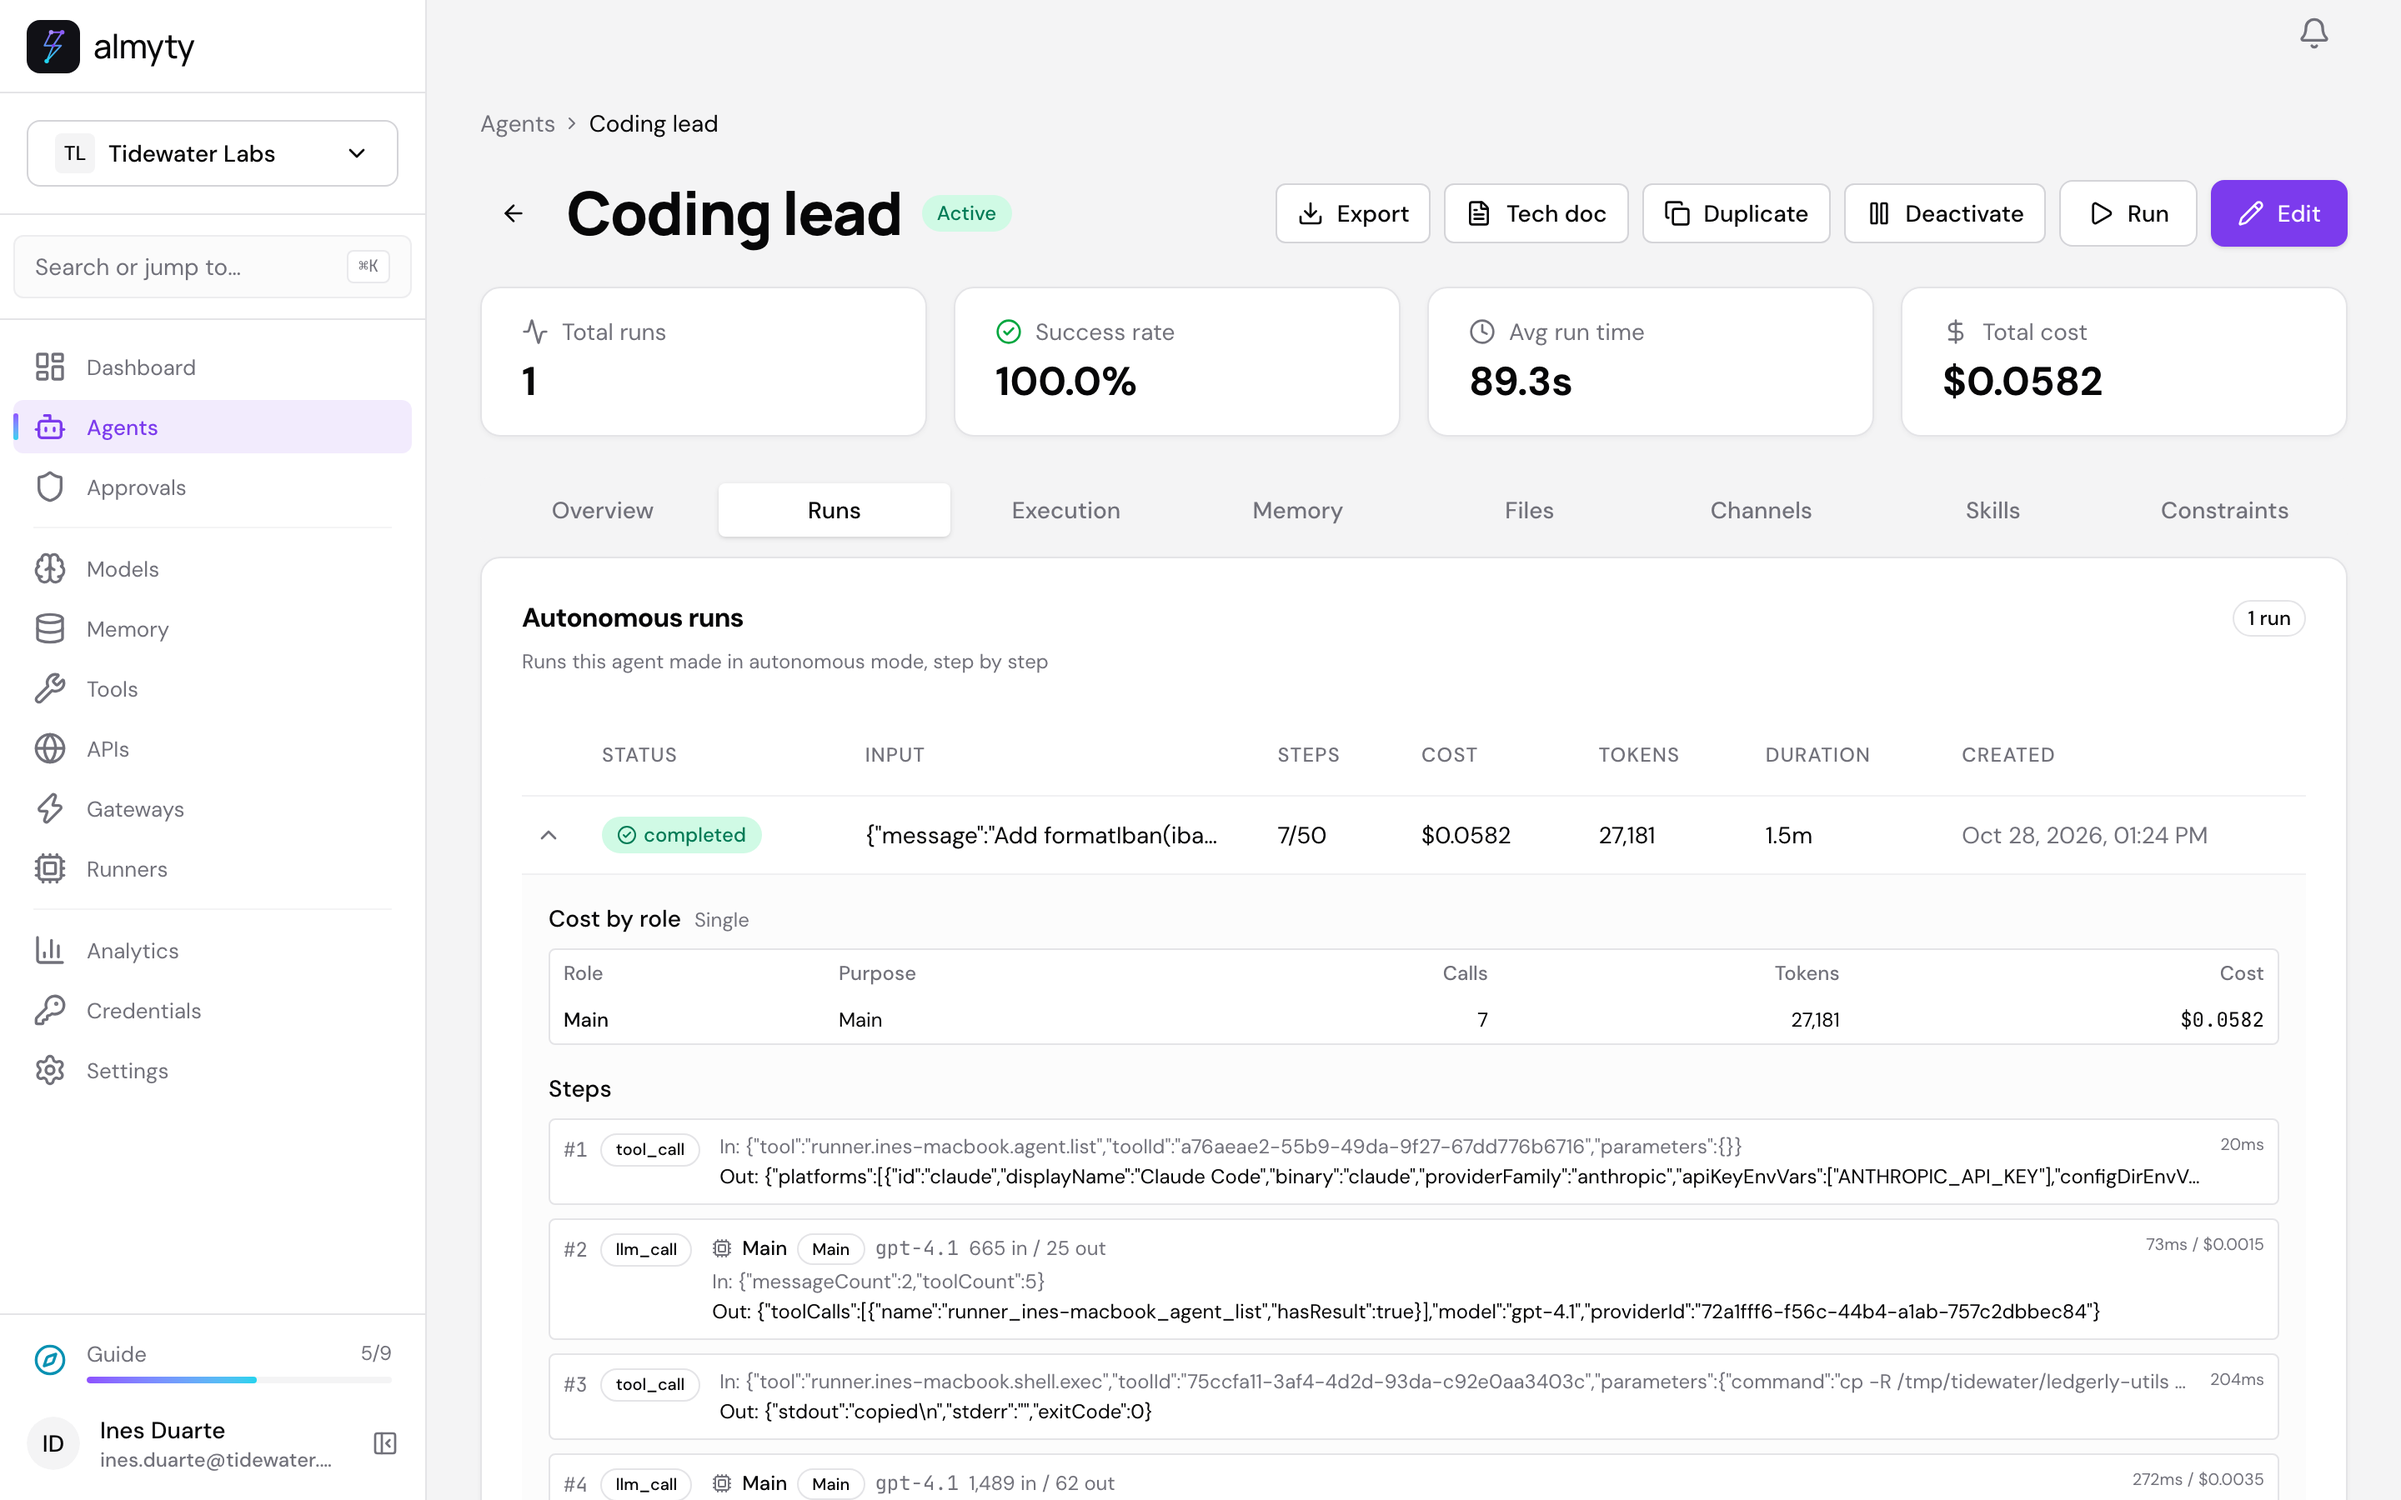
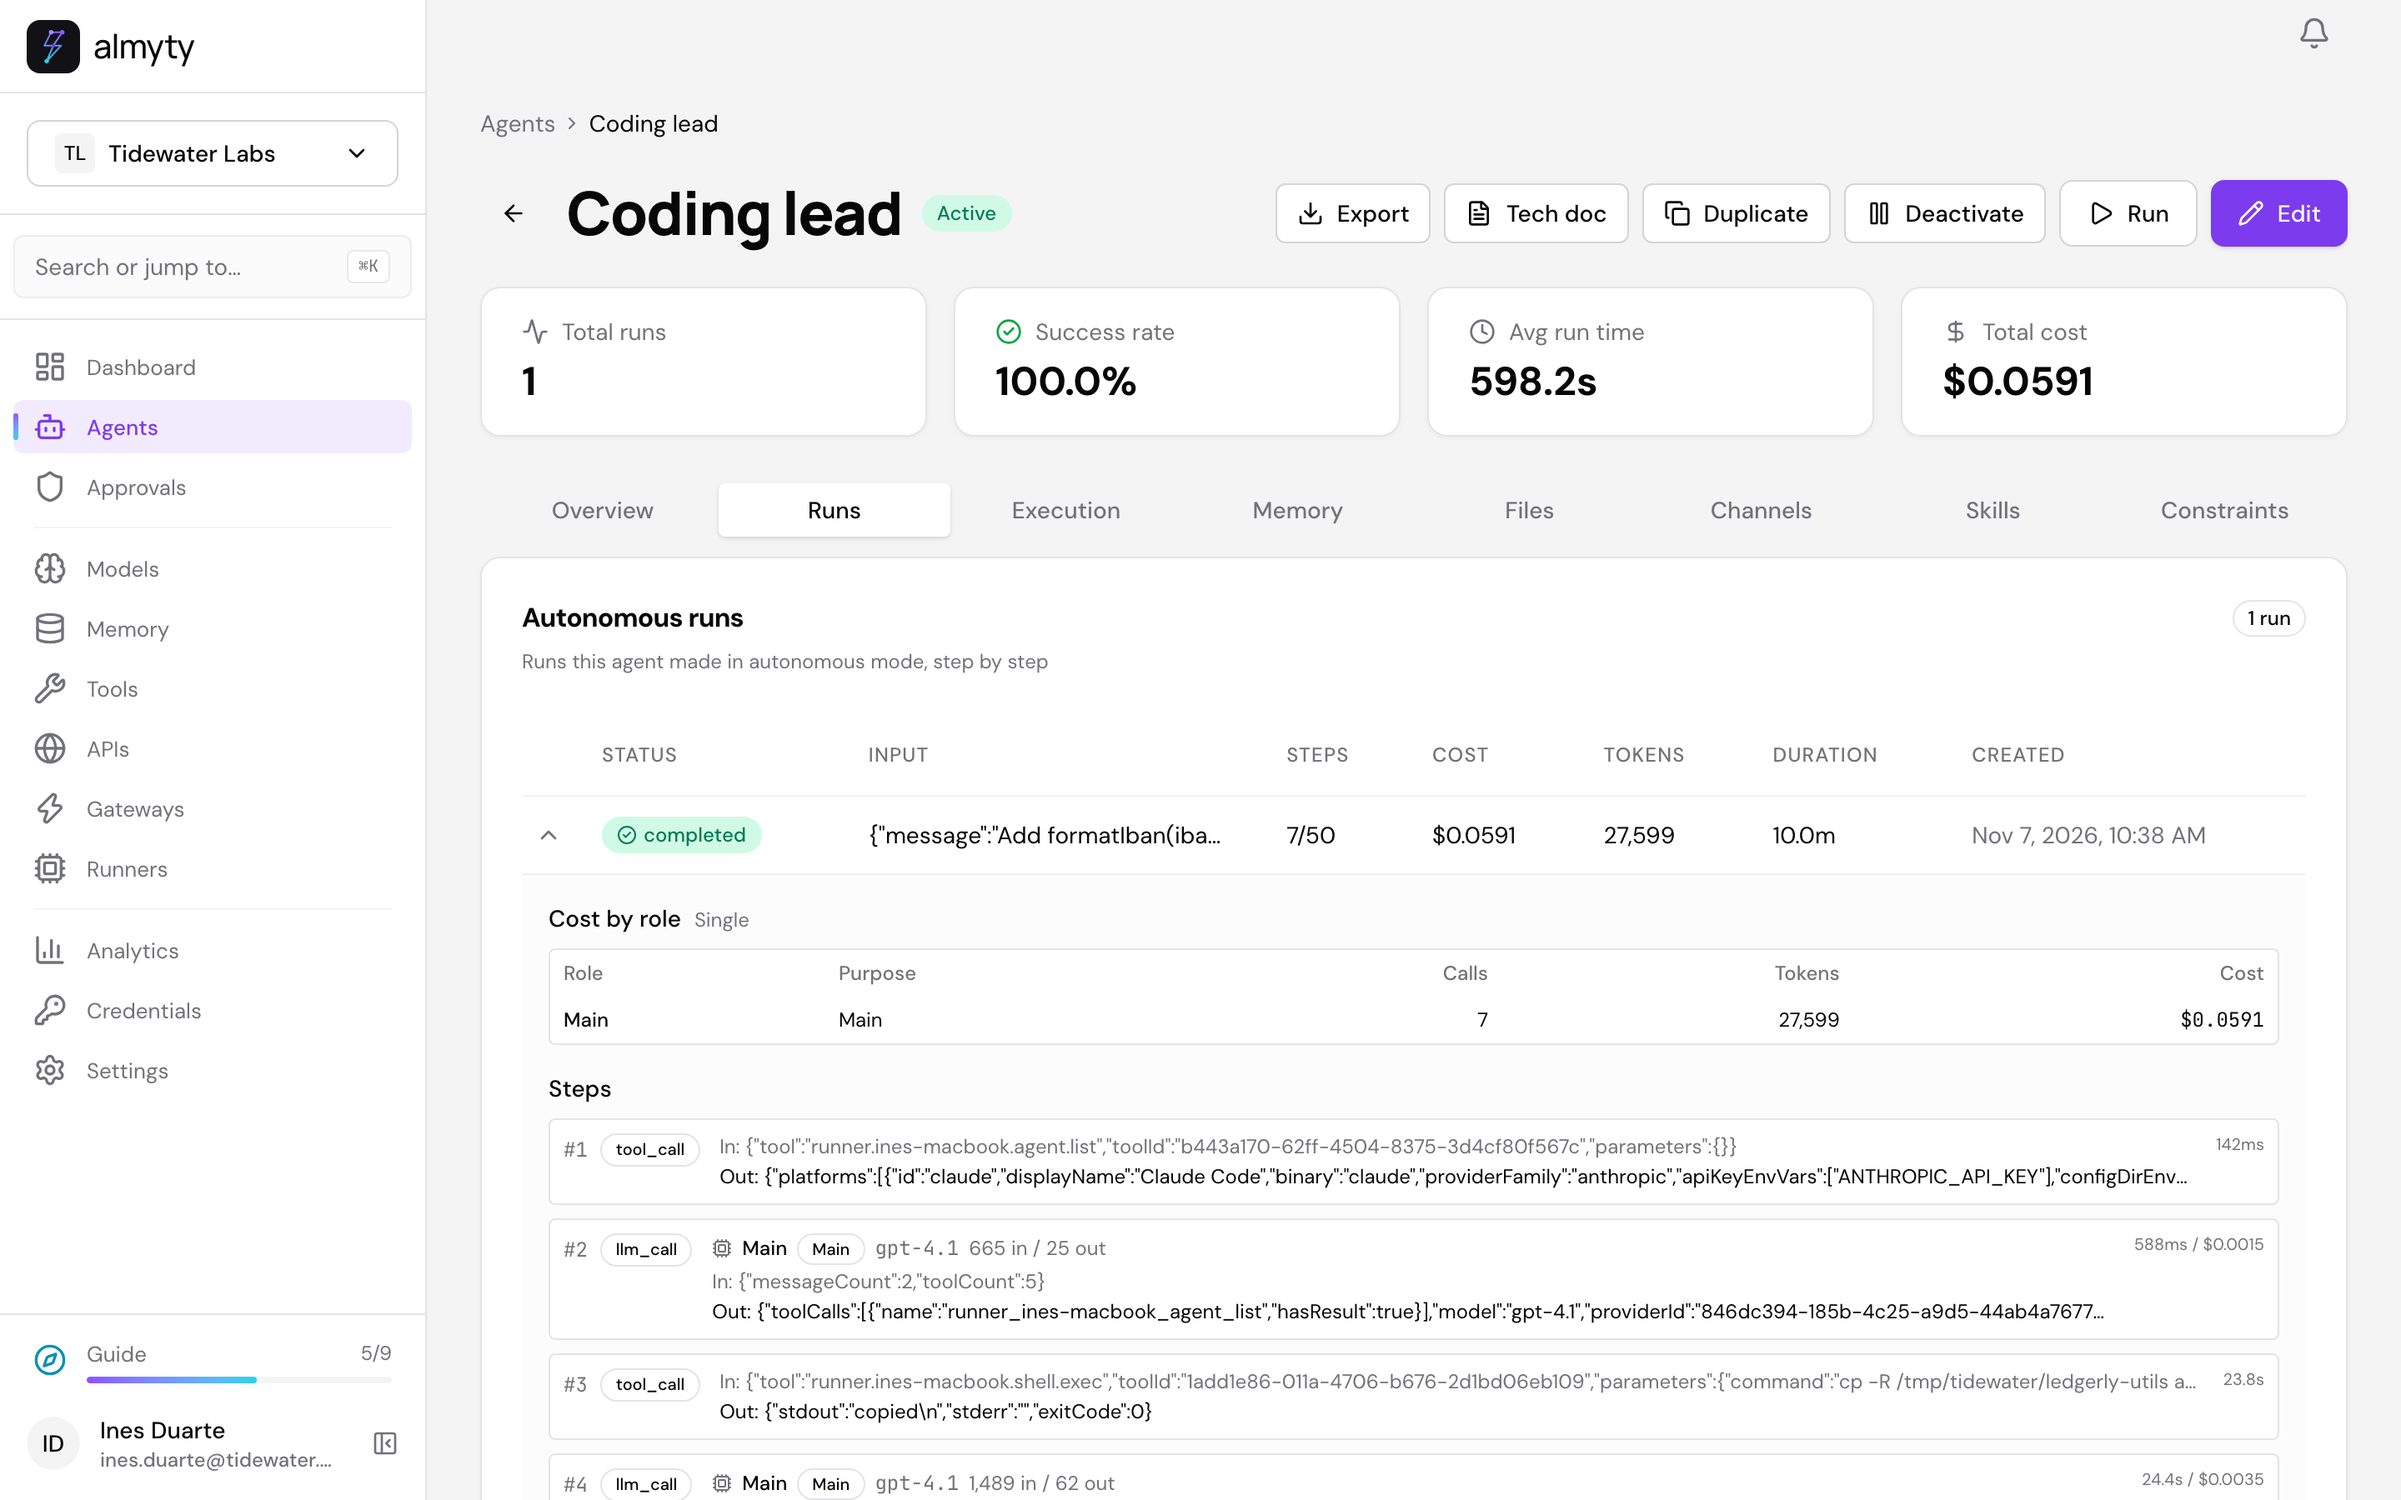
Recapture the coding fleet results with a run that fits a real task
The fleet walk waited on Try it's text, which gave up after five
minutes, and its run stopped at fifteen. The run now gets a timeout from
the walk data (DEMO_FLEET_RUN_MINUTES, 45 by default), set in the builder
as the guide says, and the walk waits on the run itself.

diff --git a/scripts/demo-seed/walks/tidewater/guides.ts b/scripts/demo-seed/walks/tidewater/guides.ts
@@ -104,9 +104,12 @@ const saveAndActivate = (as: string): Step[] => [
 ]
 
 // Ask in Try it; the hero is the whole card, answer included, for the top of the guide.
-const tryIt = (message: string, answer: RegExp, shotId: string, hero?: string, timeout = 120000): Step[] => [
-  { fill: { placeholder: 'Type a message to test this agent...' }, value: message },
-  { press: { placeholder: 'Type a message to test this agent...' }, key: 'Enter' },
+// Without a message, the question was asked by the steps before.
+const tryIt = (message: string | undefined, answer: RegExp, shotId: string, hero?: string, timeout = 120000): Step[] => [
+  ...(message === undefined ? [] : [
+    { fill: { placeholder: 'Type a message to test this agent...' }, value: message },
+    { press: { placeholder: 'Type a message to test this agent...' }, key: 'Enter' },
+  ] as Step[]),
   { waitFor: { role: 'status', hasText: answer }, timeout },
   { scrollTo: { role: 'heading', name: 'Try it' }, block: 'nearest' },
   shot(shotId),
@@ -406,6 +409,16 @@ For each task:
 
 Then report who did what, whether the tests pass, and which files changed. Never push or publish anything.`
 const FLEET_TASK = 'Add formatIban(iban) to ledgerly-utils: it removes spaces, makes the letters upper case, checks the IBAN checksum (mod 97) and returns the IBAN in groups of four, or throws an Error for an invalid IBAN. Export it from src/index.js.'
+// How long the coding run may take: the agent's run timeout and the walk's
+// wait for it. Claude Code and Codex at work on a loaded machine take from
+// a few minutes to well past the 15 a run gets by default; set
+// DEMO_FLEET_RUN_MINUTES to wait longer (the deployment's ceiling on a run,
+// RUN_LIMIT_MAX_DURATION_MS, is an hour unless set).
+export const FLEET_RUN = {
+  minutes: Number(process.env.DEMO_FLEET_RUN_MINUTES) || 45,
+  // Try it polls a long run every few seconds; on a loaded machine the page may lag behind the run.
+  answerMs: 180_000,
+}
 
 const fleet = walk('example-coding-fleet', 'Several coding assistants on one task', 'multi-vendor-coding-fleet', [
   ['fleet-00-result', '00-result', 'Coding lead: the report of a run', AGENT],
@@ -426,7 +439,7 @@ const fleet = walk('example-coding-fleet', 'Several coding assistants on one tas
   shot('fleet-02-start-runner'),
   // Ines starts the runner on her laptop; "almyty login" opens a browser, here her token stands in.
   { action: 'startRunner', with: { name: 'ines-macbook' } },
-  { until: { sql: "SELECT count(*) FROM runners WHERE name = 'ines-macbook' AND state = 'online'", not: '0' }, timeout: 60000, what: 'the runner to come online' },
+  { until: { sql: "SELECT count(*) FROM runners WHERE name = 'ines-macbook' AND state = 'online'", not: '0' }, timeout: 180000, what: 'the runner to come online' },
   { goto: '/runners' },
   shot('fleet-03-runners'),
   { click: { role: ['link', 'row'], name: /ines-macbook/ } },
@@ -445,9 +458,16 @@ const fleet = walk('example-coding-fleet', 'Several coding assistants on one tas
   press('Only you'),
   shot('fleet-07-only-you'),
   { key: 'Escape' },
+  // Real coding assistants at work take minutes, more than a run's default 15: give the run the time.
+  { click: { role: 'button', name: /^Advanced.*cost, time/ } },
+  { fill: { label: 'Timeout (seconds)' }, value: String(FLEET_RUN.minutes * 60) },
   ...saveAndActivate('agents.fleet'),
-  // Real coding assistants at work: minutes, not seconds.
-  ...tryIt(FLEET_TASK, /Changed files/, 'fleet-08-try', 'fleet-00-result', 1500000),
+  // Wait on the run itself, as long as it may take, then on Try it showing its answer.
+  { fill: { placeholder: 'Type a message to test this agent...' }, value: FLEET_TASK },
+  { press: { placeholder: 'Type a message to test this agent...' }, key: 'Enter' },
+  { until: { sql: `SELECT count(*) FROM agent_runs WHERE "agentId" = '{{agents.fleet}}' AND status NOT IN ('pending', 'running')`, not: '0' }, timeout: FLEET_RUN.minutes * 60_000, every: 10_000, what: 'the coding run to finish' },
+  // git's own summary line: a run whose commands failed reports no files changed and stops the walk here.
+  ...tryIt(undefined, /\d+ files? changed, \d+ insertion/, 'fleet-08-try', 'fleet-00-result', FLEET_RUN.answerMs),
   ...runSteps('agents.fleet', 'fleet-09-run'),
   { action: 'stopRunner' },
 ])

diff --git a/scripts/demo-seed/walks/tidewater/index.ts b/scripts/demo-seed/walks/tidewater/index.ts
@@ -98,18 +98,25 @@ export const tidewater: Family = {
       writeFileSync(join(dir, 'src/index.js'), "export { formatMoney } from './money.js'\n")
       writeFileSync(join(dir, 'src/money.js'), "// Format an amount in cents, e.g. formatMoney(418000, 'EUR') -> \"4,180.00 EUR\"\nexport function formatMoney(cents, currency) {\n  const value = (cents / 100).toLocaleString('en-US', { minimumFractionDigits: 2, maximumFractionDigits: 2 })\n  return `${value} ${currency}`\n}\n")
       writeFileSync(join(dir, 'test/money.test.js'), "import { test } from 'node:test'\nimport assert from 'node:assert/strict'\nimport { formatMoney } from '../src/index.js'\n\ntest('formats cents with two decimals and the currency', () => {\n  assert.equal(formatMoney(418000, 'EUR'), '4,180.00 EUR')\n})\n")
+      // Folders the tools on the capturing machine leave in a project (editor state, an
+      // assistant's own workspace) stay out of the run's "what changed".
+      writeFileSync(join(dir, '.gitignore'), 'node_modules/\n.agented/\n.idea/\n.vscode/\n')
       return dir
     },
 
     /**
      * Start @almyty/runner (ALMYTY_RUNNER_BIN or almyty-runner on PATH) as Ines,
      * in /tmp/tidewater: { name }. Her API token stands in for "almyty login".
+     * Its project config keeps commands, and so the run folders it makes, in
+     * /tmp/tidewater, not under the home folder of whoever takes the screenshots.
      */
     startRunner: async (run, a) => {
       // A coding assistant started from inside another one's session refuses to run; this one starts clean.
       const env = Object.fromEntries(Object.entries(process.env).filter(([k]) => !/^CLAUDE/.test(k)))
       const state = join(run.out, 'runner-state')
       mkdirSync(state, { recursive: true })
+      mkdirSync('/tmp/tidewater/.almyty', { recursive: true })
+      writeFileSync('/tmp/tidewater/.almyty/config.json', JSON.stringify({ config: { allowedCwdRoots: ['/tmp/tidewater'] } }, null, 2) + '\n')
       stopRunner()
       runner = spawn(process.env.ALMYTY_RUNNER_BIN || 'almyty-runner', ['start', '--name', String(a.name), '--org', run.person!.orgId, '--url', run.env.api], {
         cwd: '/tmp/tidewater', env: { ...env, ALMYTY_TOKEN: run.person!.token, ALMYTY_URL: run.env.api, ALMYTY_RUNNER_STATE_DIR: state }, stdio: ['ignore', 'inherit', 'inherit'],

diff --git a/scripts/demo-seed/test/tidewater.test.ts b/scripts/demo-seed/test/tidewater.test.ts
@@ -75,3 +75,22 @@ test('the tidewater walks load', () => {
   const ids = load(FAMILIES).walks.filter((w) => w.profile === 'tidewater').map((w) => w.id)
   assert.deepEqual(ids, ['example-issue-triage', 'example-pr-review', 'example-oncall', 'example-legacy-soap', 'example-coding-fleet'])
 })
+
+test('the coding fleet gives its run the time a real coding task takes, and waits on the run for it', async () => {
+  const { FLEET_RUN } = await import('../walks/tidewater/guides.ts')
+  const fleet = load(FAMILIES).walks.find((w) => w.id === 'example-coding-fleet')!
+  const steps = fleet.steps as any[]
+  // The agent's own run timeout, set in the builder, is the walk's.
+  const timeout = steps.find((s) => s.fill?.label === 'Timeout (seconds)')
+  assert.equal(timeout?.value, String(FLEET_RUN.minutes * 60))
+  assert.ok(FLEET_RUN.minutes > 15, 'longer than a run gets by default')
+  // The walk waits on the run in the database, as long as the run may take; then briefly on Try it's answer.
+  const i = steps.findIndex((s) => s.until?.sql?.includes('FROM agent_runs'))
+  assert.ok(i > 0)
+  assert.equal(steps[i].timeout, FLEET_RUN.minutes * 60_000)
+  assert.equal(steps[i + 1].waitFor?.role, 'status')
+  assert.ok(steps[i + 1].timeout <= 300_000)
+  // Only git's own summary counts as an answer: a run whose commands failed has none.
+  assert.ok(steps[i + 1].waitFor.hasText.test(' 3 files changed, 42 insertions(+)'))
+  assert.ok(!steps[i + 1].waitFor.hasText.test('**Changed files:**\nError: workspace_unavailable'))
+})

diff --git a/scripts/demo-seed/test/schema.test.ts b/scripts/demo-seed/test/schema.test.ts
@@ -60,8 +60,8 @@ test('only someone who signs in through SSO may have no password', () => {
 test('paths, timeouts and headless walks are checked', () => {
   assert.throws(() => parseWalk(walk({ shots: { one: { path: 'public/one.png', title: 'One', sources: ['x'] } } })), /screenshots/)
   assert.throws(() => parseWalk(walk({ steps: [{ waitFor: { text: 'x' }, timeout: -1 }, { shot: 'one' }] })), /steps\.0/)
-  // Up to half an hour, for real coding assistants at work; no longer.
-  assert.doesNotThrow(() => parseWalk(walk({ steps: [{ waitFor: { text: 'x' }, timeout: 1_500_000 }, { shot: 'one' }] })))
-  assert.throws(() => parseWalk(walk({ steps: [{ waitFor: { text: 'x' }, timeout: 1_800_001 }, { shot: 'one' }] })), /steps\.0\.timeout/)
+  // Up to two hours, for real coding assistants at work; no longer.
+  assert.doesNotThrow(() => parseWalk(walk({ steps: [{ waitFor: { text: 'x' }, timeout: 3_600_000 }, { shot: 'one' }] })))
+  assert.throws(() => parseWalk(walk({ steps: [{ waitFor: { text: 'x' }, timeout: 7_200_001 }, { shot: 'one' }] })), /steps\.0\.timeout/)
   assert.throws(() => parseWalk(walk({ headless: true })), /headless walk takes no screenshots/)
 })

diff --git a/scripts/demo-seed/engine/schema.ts b/scripts/demo-seed/engine/schema.ts
@@ -59,8 +59,9 @@ export const LocatorSchema: z.ZodType<Locator> = z.lazy(() => z.object({
 const noText = (l: Locator): boolean => l.text === undefined && (!l.within || noText(l.within))
 export const TargetSchema = LocatorSchema.refine(noText, { message: 'act on an element by role, label, placeholder, title or testid, not by its text' })
 
-// Up to half an hour: a step may wait on real coding assistants at work.
-const Timeout = z.number().int().positive().max(1_800_000)
+// Up to two hours: a step may wait on real coding assistants at work, as
+// long as the walk says (the coding fleet's DEMO_FLEET_RUN_MINUTES).
+const Timeout = z.number().int().positive().max(7_200_000)
 
 // A condition a step waits for or branches on.
 export type Condition =
